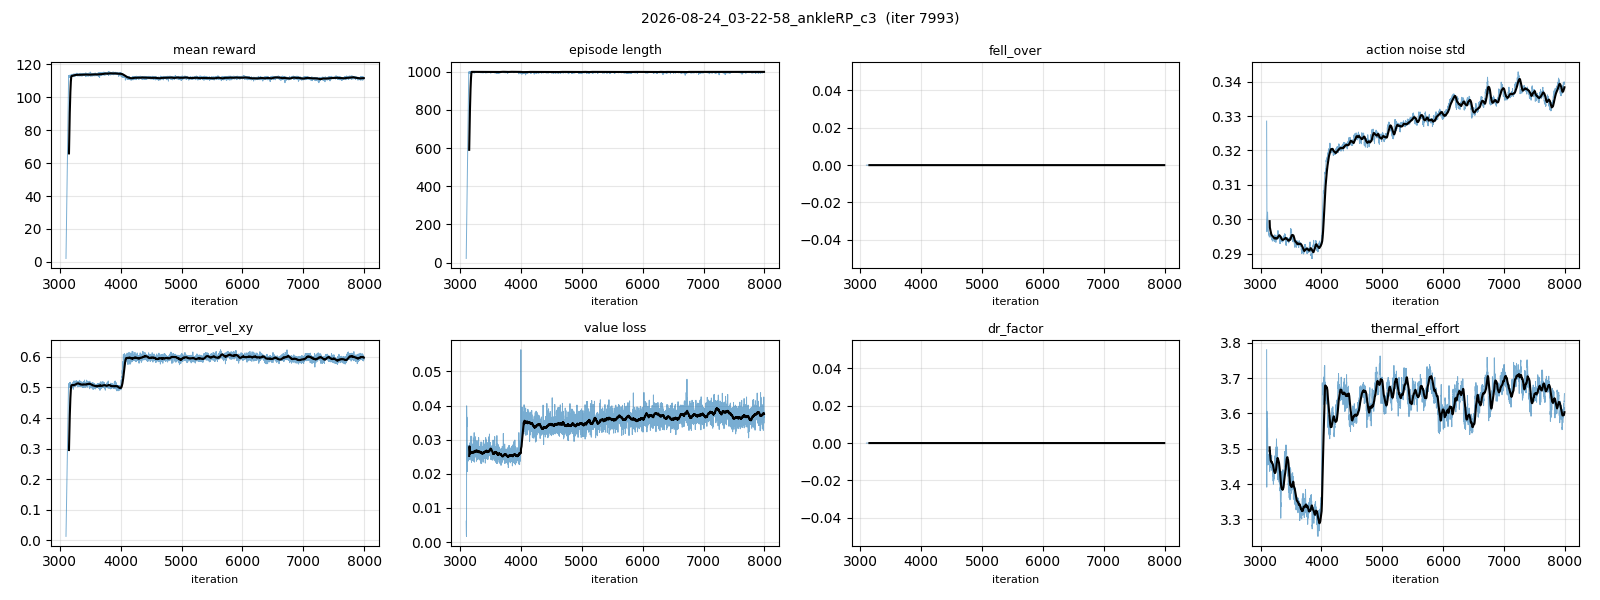
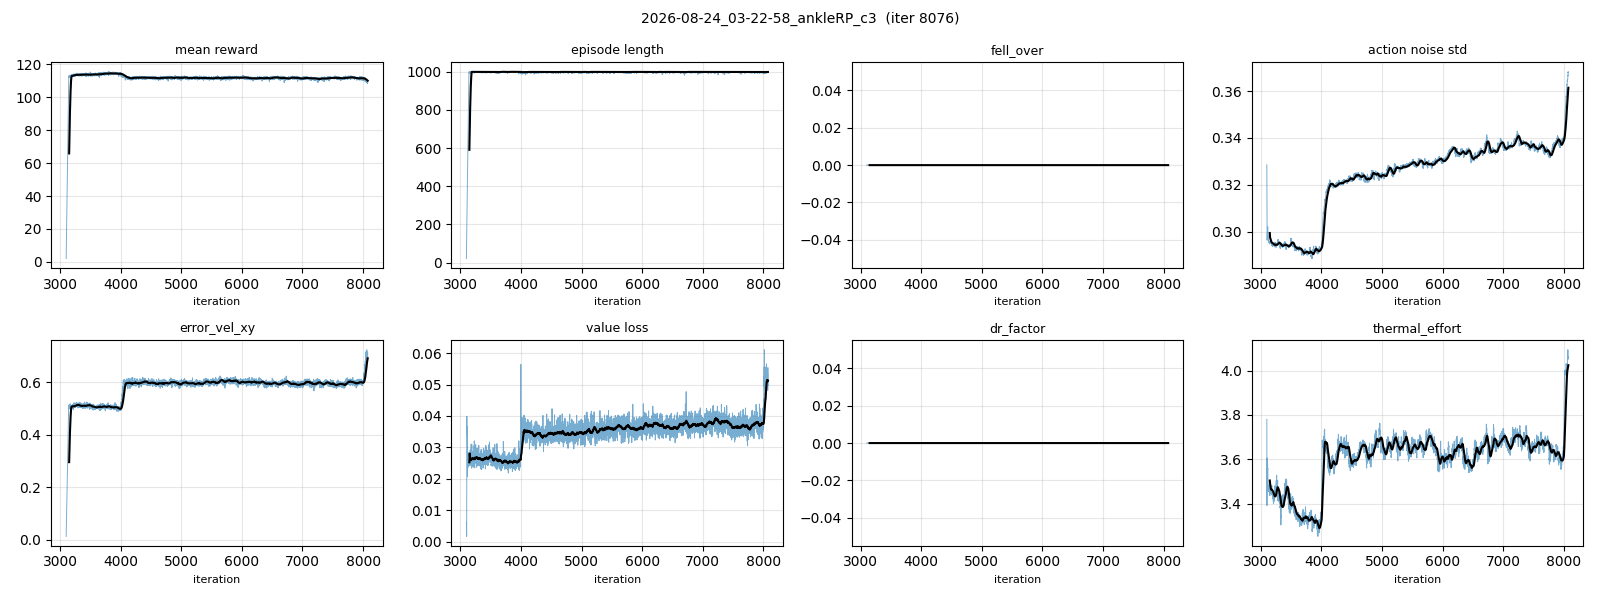
c3 gate 8000: RP now softer than AB (0.85/1.03BW vs 0.93/1.23BW), impact p90 tail up to 1.96 m/s, standstill stepping appears in AB (foot motion 0.115 m/s) - flagged for 12k recheck

diff --git a/docs/95_soft_landing_prescription.md b/docs/95_soft_landing_prescription.md
@@ -84,9 +84,18 @@
 | 3900 시험2 | AB | 0.98 / 1.33 | 1.31 / — | 204 | 1.23 | 0.036 / 0.080 | 0.040 / 0.085 | — / 0.67 m | 0.011 | 채택 |
 | **4000** (vx 1.2) | **AB** | **0.90 / 1.34** | **1.00 / 1.37** | 112 | 1.40 | 0.029 / **0.092** | 0.048 / 0.117 | 0.52 / 0.64 m | 0.009 | ✅ CONTINUE |
 | **4000** (vx 1.2) | **RP** | **1.14 / 1.36** | **1.22 / 1.61** | 137 | 1.38 | 0.014 / **0.081** | 0.043 / 0.094 | 0.51 / 0.67 m | 0.004 | ✅ CONTINUE |
+| **8000** (vx 1.6) | **AB** | 0.93 / **1.96** | 1.23 / 1.37 | 104 | 1.32 | 0.011 / **0.112** | 0.076 / 0.065 | 0.51 / 0.72 m | **0.115** ⚠ | ⚠ CONTINUE (정지 제자리걸음) |
+| **8000** (vx 1.6) | **RP** | **0.85** / **1.96** | **1.03** / 1.51 | **86** | 1.29 | 0.022 / **0.082** | 0.053 / 0.068 | 0.54 / 0.65 m | 0.072 ⚠ | ⚠ CONTINUE |
 
 **4000 게이트 판독**
 - 두 arm 모두 **스윙 최고높이 @0.8 ≥ 0.08 m** — 감시 역치 0.05 m 위, w −1.0 유지(−0.5 재시작 불필요). @0.4는 AB 0.029 / RP 0.014 m로 낮지만, 저속에서는 c2 기준선(0.091)도 밴드(h 0.10) 안쪽이라 벌점이 항상 걸리는 구간 → 발을 끌지 않는지(stance_slip·flight_frac)로 판단: 미끄럼 0.07–0.11 m/s, 비행구간 0, 보폭 0.34–0.35 m로 정상 스텝.
 - **AB가 RP보다 부드럽게 착지**: 접지속도 0.90 vs 1.14 m/s(−21 %), 피크 1.00 vs 1.22 BW(−18 %), 하중률 112 vs 137 BW/s. 발목 폐루프(크랭크)의 반사관성·감쇠가 접지 순간을 완충하는 쪽으로 해석 — stage 2 공통공간 비교에서 재확인할 것.
 - **AB 오른발 200 Hz max 3.54 BW 1회**(median 1.00, p90 1.22) — 29 이벤트 중 단발 스파이크. 사이징에는 p99 사용(1.15–1.17 BW), 단 8k 게이트에서 재발하면 접촉·루프 구속 상호작용([[94_loop_constraint_stiffness]])으로 조사.
 - 해킹 징후 없음: 비행구간 0(점프 아님), 정지 시 duty 1.00/0.996·발 움직임 ≤0.009 m/s(제자리 종종거림 아님), 발목 pitch 가동 14.2–14.8°(발목 잠금 아님), 추종 오차 0.09–0.12 @0.8(vx 1.2 커리큘럼 전환 직후 값).
+
+**8000 게이트 판독 (vx 1.6 커리큘럼 진입 후)**
+- **역전**: 4000에서는 AB가 부드러웠으나(0.90 vs 1.14 m/s), 8000에서는 **RP가 더 부드럽다** — 접지 0.85 vs 0.93 m/s, 피크 1.03 vs 1.23 BW, 하중률 86 vs 104 BW/s. 4000 시점 차이는 학습 위상 차이였고 두 기구학 모두 soft-landing 항에 수렴 중 → arm 간 착지 우열은 **완주 후 fc 측정**으로 판정할 것(중간 게이트로 단정 금지).
+- 접지속도 **p90이 1.34→1.96 m/s로 상승**(양쪽 동일). 중앙값은 내려갔는데 꼬리가 두꺼워짐 = 빠른 명령(1.6까지 확장된 커리큘럼)에서 배운 큰 보폭이 0.8 m/s 재생에서도 가끔 세게 떨어짐. 피크 BW 중앙(1.03–1.23)·p99(1.20–1.31 BW)는 여전히 c2 기준선(1.50/1.47) 아래 → 사이징 관점 문제 없음.
+- ⚠ **정지 명령에서 제자리걸음 발생**: AB duty 0.996→0.874, 보폭 0.008→0.082 m, 발 움직임 0.009→**0.115 m/s**, 1.29 stride/s. RP도 0.004→0.072 m/s(0.43 stride/s)로 약하게. soft-landing 항은 명령 게이트가 걸려 있어 정지 시엔 꺼지므로 **직접 원인은 아님**; vx 1.6 확장으로 정지 근방 표본이 희석된 쪽이 유력. 12k 게이트에서 재확인, 계속 악화(발 움직임 >0.15 m/s 또는 duty <0.8)하면 stand-still 항(`stand_still`/명령 데드밴드) 재조사 후 대응([[reward-research 규칙]] — 원인조사 먼저).
+- 발목 pitch 가동은 오히려 증가(AB 14.8→21.1°, RP 14.2→16.2° @0.8) — 발목 잠금·정지형 해킹 아님. 비행구간 0 유지(점프 없음), low_base 0.
+- 스탠스 미끄럼 0.11→0.19–0.20 m/s(양쪽) — 보폭 증가(0.64→0.72 m)와 함께 커진 값이라 절대적 이상은 아니나 12k에서 추세 확인.

diff --git a/docs/experiments/2026-08-24_ankleAB_c3.md b/docs/experiments/2026-08-24_ankleAB_c3.md
@@ -24,3 +24,4 @@
 | 08-24 08:27 | 6765 | 111.7 (50avg 112.1) | 1000 | 0.336 | 0.0339 | 2.77 | -0.0044 / 5.8e-04 | 0.000 / 0.000 | 0.598 / 0.480 | 0.00 / 1.2 | 4.23 | (자동 스냅샷, 판정은 게이트 리뷰에서) |
 | 08-24 09:27 | 7486 | 112.0 (50avg 111.7) | 1000 | 0.339 | 0.0366 | 2.91 | -0.0049 / 5.8e-04 | 0.000 / 0.000 | 0.580 / 0.485 | 0.00 / 1.2 | 4.14 | (자동 스냅샷, 판정은 게이트 리뷰에서) |
 | 08-24 10:10 | 8001 | 110.8 (50avg 111.6) | 996 | 0.342 | 0.0417 | 3.02 | -0.0053 / 5.8e-04 | 0.000 / 0.042 | 0.599 / 0.489 | 0.00 / 1.6 | 4.32 | vx1.2 구간 안정화(4.2k→8k): reward 111.8→112.0·err_vel 0.61→0.59 회복, fell 0, thermal 4.16 → CONTINUE. 4000 게이트 측정 완료(접지 0.90 m/s·피크 1.00 BW·스윙 0.092 m, docs/95 §7) — 해킹 징후 없음 |
+| 08-24 10:17 | 8083 | 108.8 (50avg 109.6) | 996 | 0.370 | 0.0482 | 3.95 | -0.0055 / 5.8e-04 | 0.000 / 0.208 | 0.713 / 0.524 | 0.00 / 1.6 | 4.70 | 8000 게이트 측정(vx 1.6 진입): 접지 0.93 m/s·피크 1.23 BW·하중률 104, 스윙 0.112 m(역치 위) → CONTINUE. ⚠정지 명령 제자리걸음(발움직임 0.009→0.115 m/s, duty 0.87) — 12k 재확인 대상, docs/95 §7 |

diff --git a/docs/experiments/2026-08-24_ankleRP_c3.md b/docs/experiments/2026-08-24_ankleRP_c3.md
@@ -24,3 +24,4 @@
 | 08-24 08:27 | 6757 | 111.8 (50avg 111.4) | 1000 | 0.336 | 0.0332 | 2.86 | -0.0054 / 3.8e-04 | 0.000 / 0.000 | 0.602 / 0.491 | 0.00 / 1.2 | 3.61 | (자동 스냅샷, 판정은 게이트 리뷰에서) |
 | 08-24 09:27 | 7479 | 111.9 (50avg 111.7) | 1000 | 0.336 | 0.0359 | 2.90 | -0.0055 / 5.8e-04 | 0.000 / 0.000 | 0.587 / 0.484 | 0.00 / 1.2 | 3.67 | (자동 스냅샷, 판정은 게이트 리뷰에서) |
 | 08-24 10:10 | 7993 | 111.4 (50avg 111.6) | 1000 | 0.340 | 0.0367 | 3.02 | -0.0049 / 5.8e-04 | 0.000 / 0.000 | 0.592 / 0.491 | 0.00 / 1.2 | 3.66 | vx1.2 구간 안정화(4.2k→8k): reward 112.5→111.4·err_vel 0.60→0.59, fell 0 → CONTINUE. 4000 게이트 측정 완료(접지 1.14 m/s·피크 1.22 BW·스윙 0.081 m) — AB보다 착지 21% 거침, docs/95 §7 |
+| 08-24 10:17 | 8076 | 109.4 (50avg 110.1) | 1000 | 0.368 | 0.0482 | 4.00 | -0.0053 / 5.8e-04 | 0.000 / 0.042 | 0.696 / 0.528 | 0.00 / 1.6 | 4.06 | 8000 게이트 측정(vx 1.6 진입): 접지 0.85 m/s·피크 1.03 BW·하중률 86 = AB보다 부드러움(4k와 역전), 스윙 0.082 m → CONTINUE. ⚠정지 발움직임 0.004→0.072 m/s 경미, docs/95 §7 |
